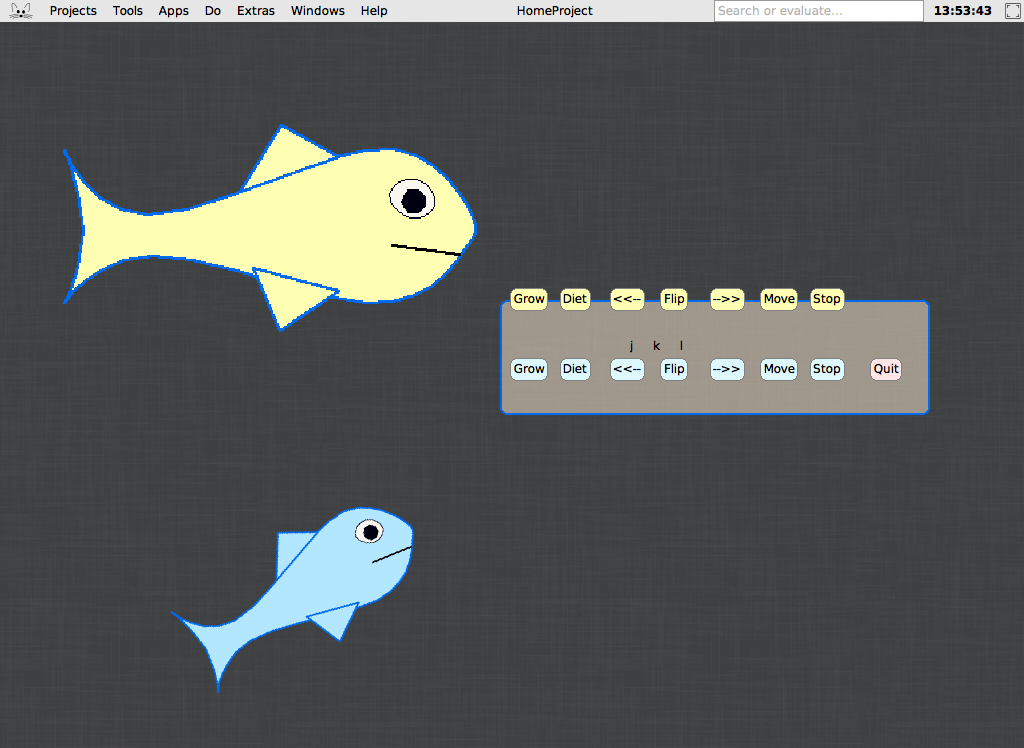
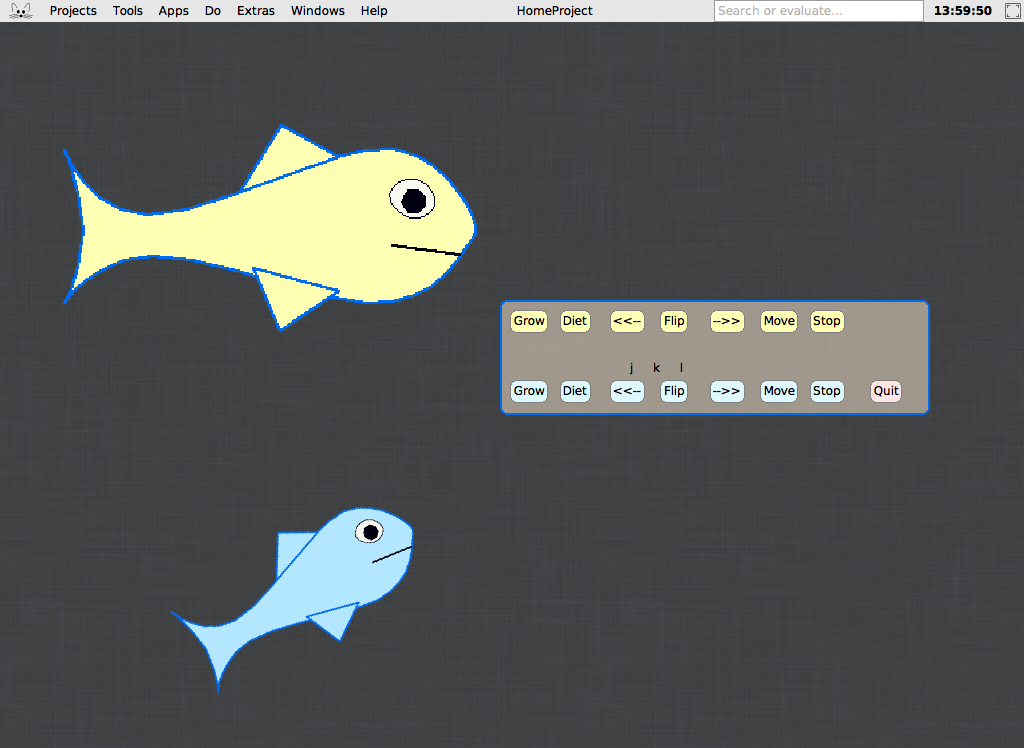
The control panel's buttons inside it: the panel put at 0@0 before them
Squeak 5 and later open a morph below their menu bar, 22 points down, and
the buttons, placed as if the panel were at 0@0, as in Squeak 3.9, stood
above it. The screenshot taken again.

Claude-Session: https://claude.ai/code/session_01MBEJFwuXtKYHKXyva9Fqrv

Changed region(s): [[0.5, 0.369, 0.9062, 0.5535], [0.9375, 0.0, 0.9688, 0.0307]]

diff --git a/README.md b/README.md
@@ -94,13 +94,15 @@ to Squeak 6.0. The code was in zips of 2007 and 2008, a Subversion working
 copy, and the `.changes` files of the Squeak images, where Squeak writes every
 method as it is saved; the methods of all of them were read and compared, and
 the newest, of the commit of 30 March 2008 (last edited 10 March 2007), kept.
-Three small changes were needed for Squeak 5 and 6, which work in Squeak 3.9
+Four small changes were needed for Squeak 5 and 6, which work in Squeak 3.9
 too: `borderWidth:` and `borderColor:` in place of the deprecated
 `setBorderWidth:borderColor:`; `Fish>>color:` answering before the fish has
 its morph, as Squeak 5 sends `color:` from `initialize`; and
 `Fish>>indicateKeyboardFocus` answering `false`, so that the blue fish, which
 has the keyboard focus, is drawn without the frame Squeak 5 and later put
-round the focus.
+round the focus; and the control panel put at `0@0` before its buttons are
+placed, as Squeak 5 and later open it below their menu bar, which pushed the
+top row of buttons out of the panel.
 
 The salvage, the upgrade to Squeak 6.0 and the packages were done by
 [Claude](https://claude.com/claude-code), Anthropic's AI model, with Evgeni
